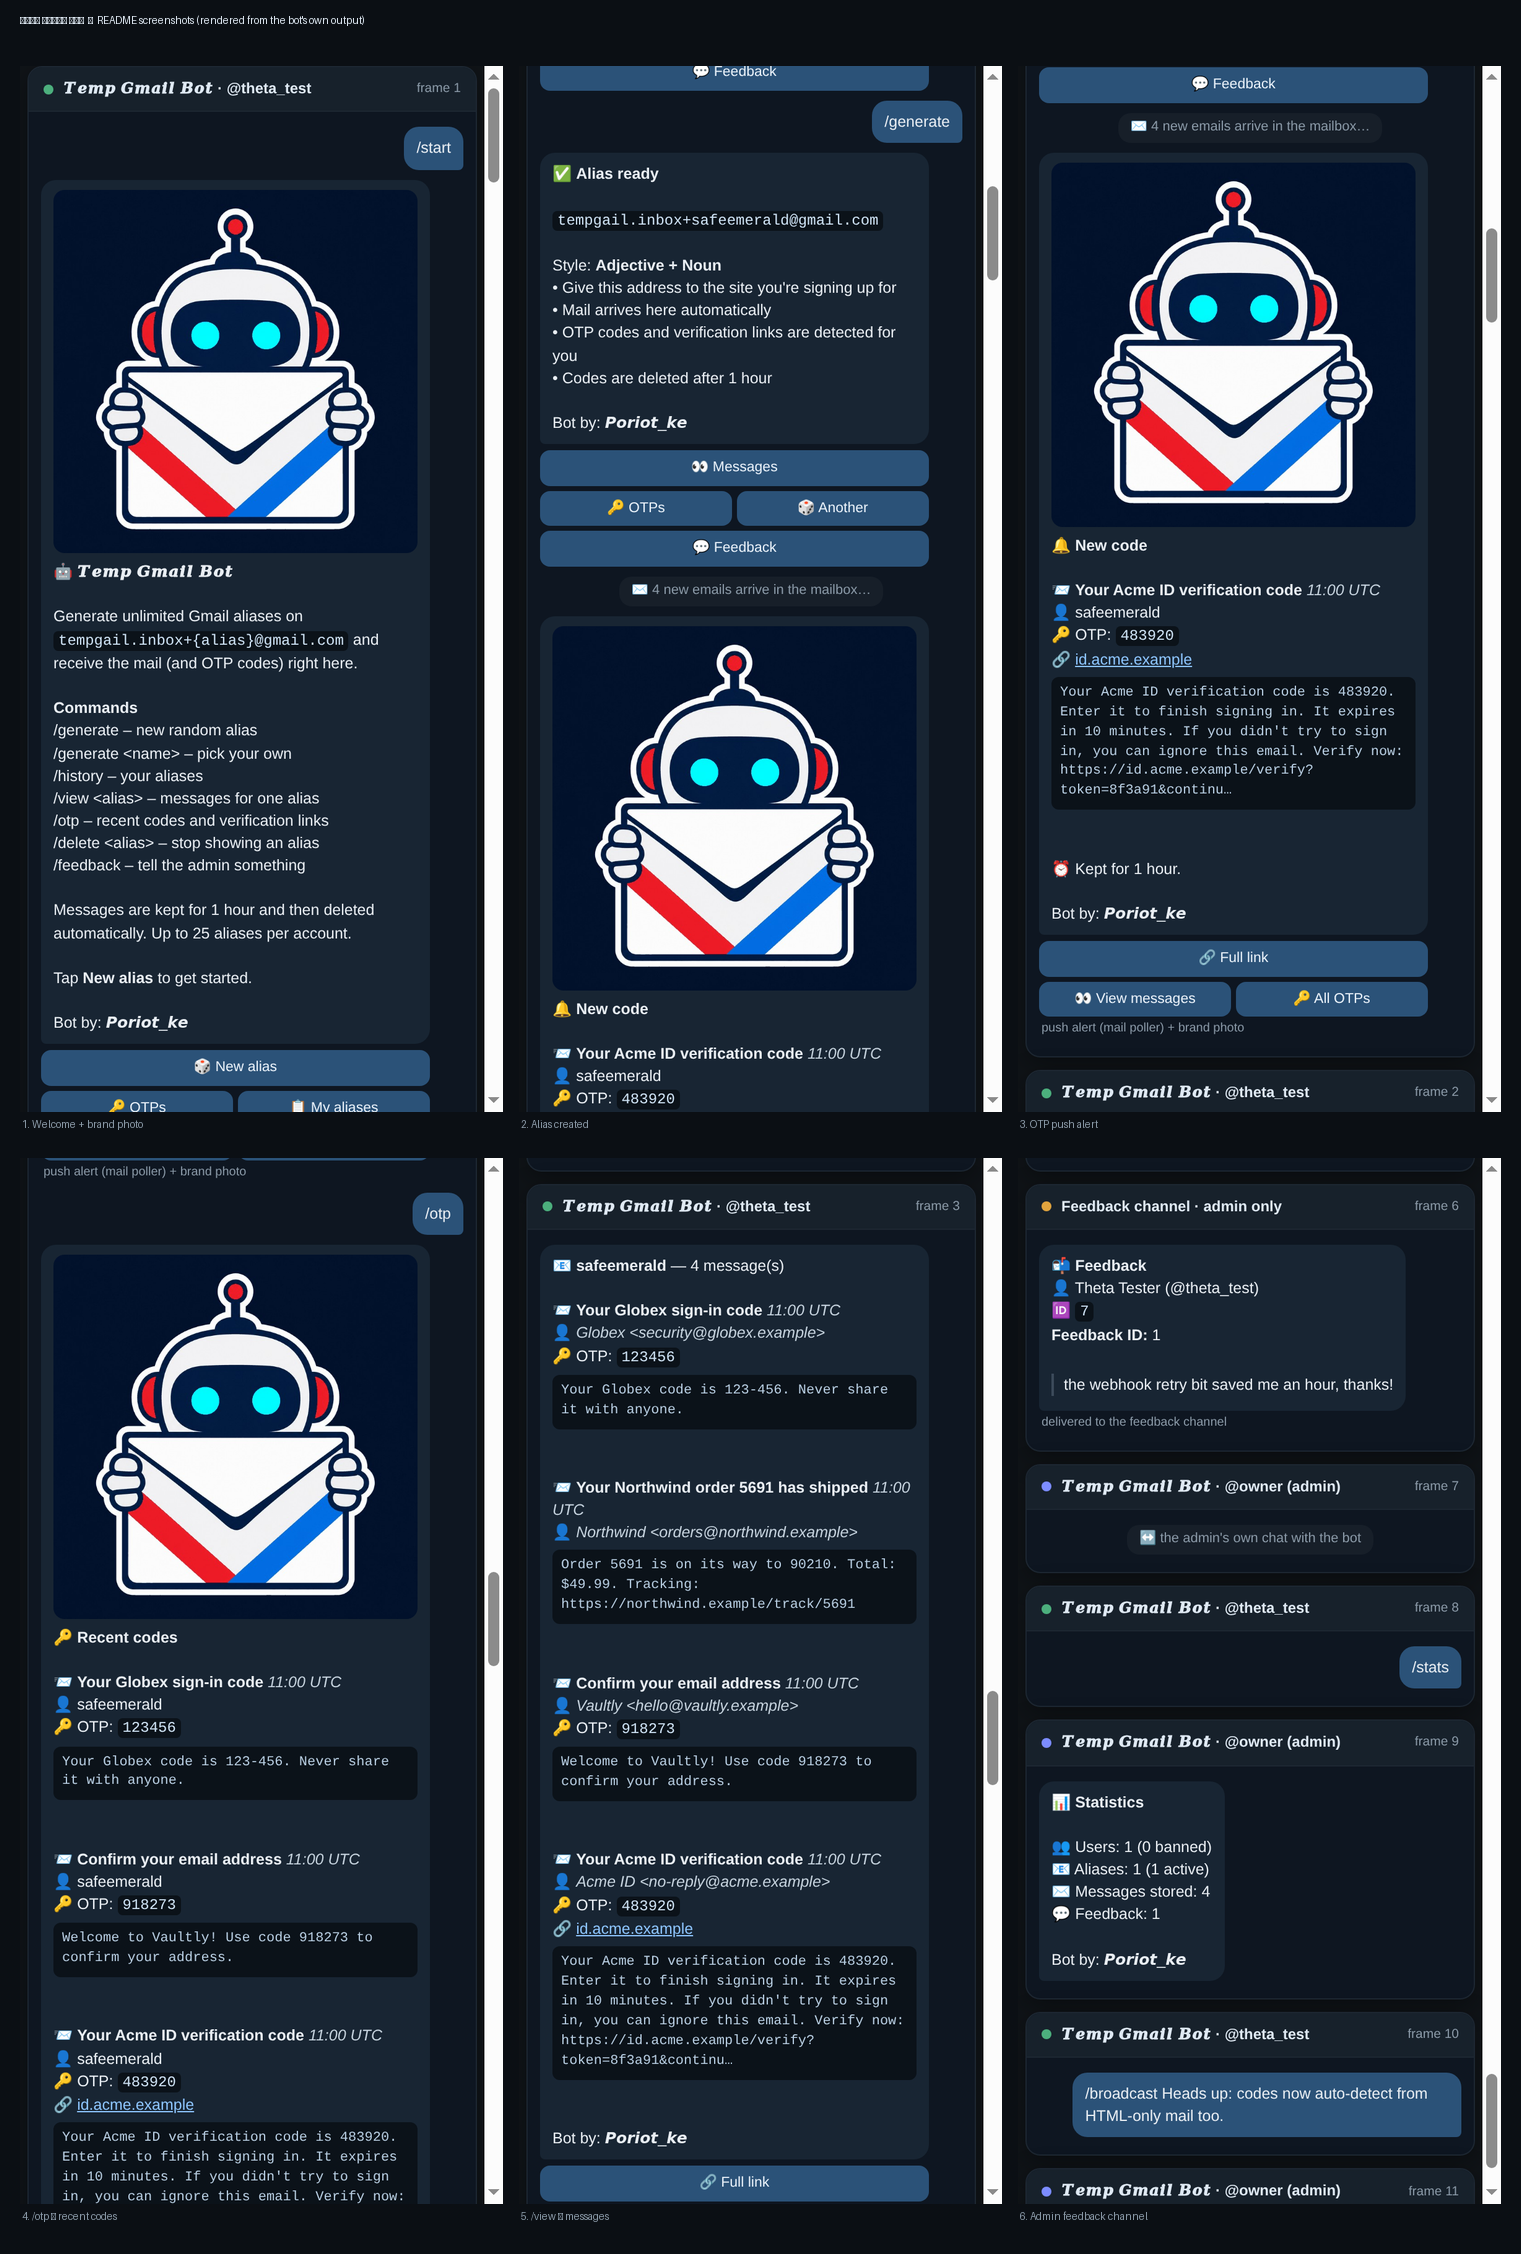
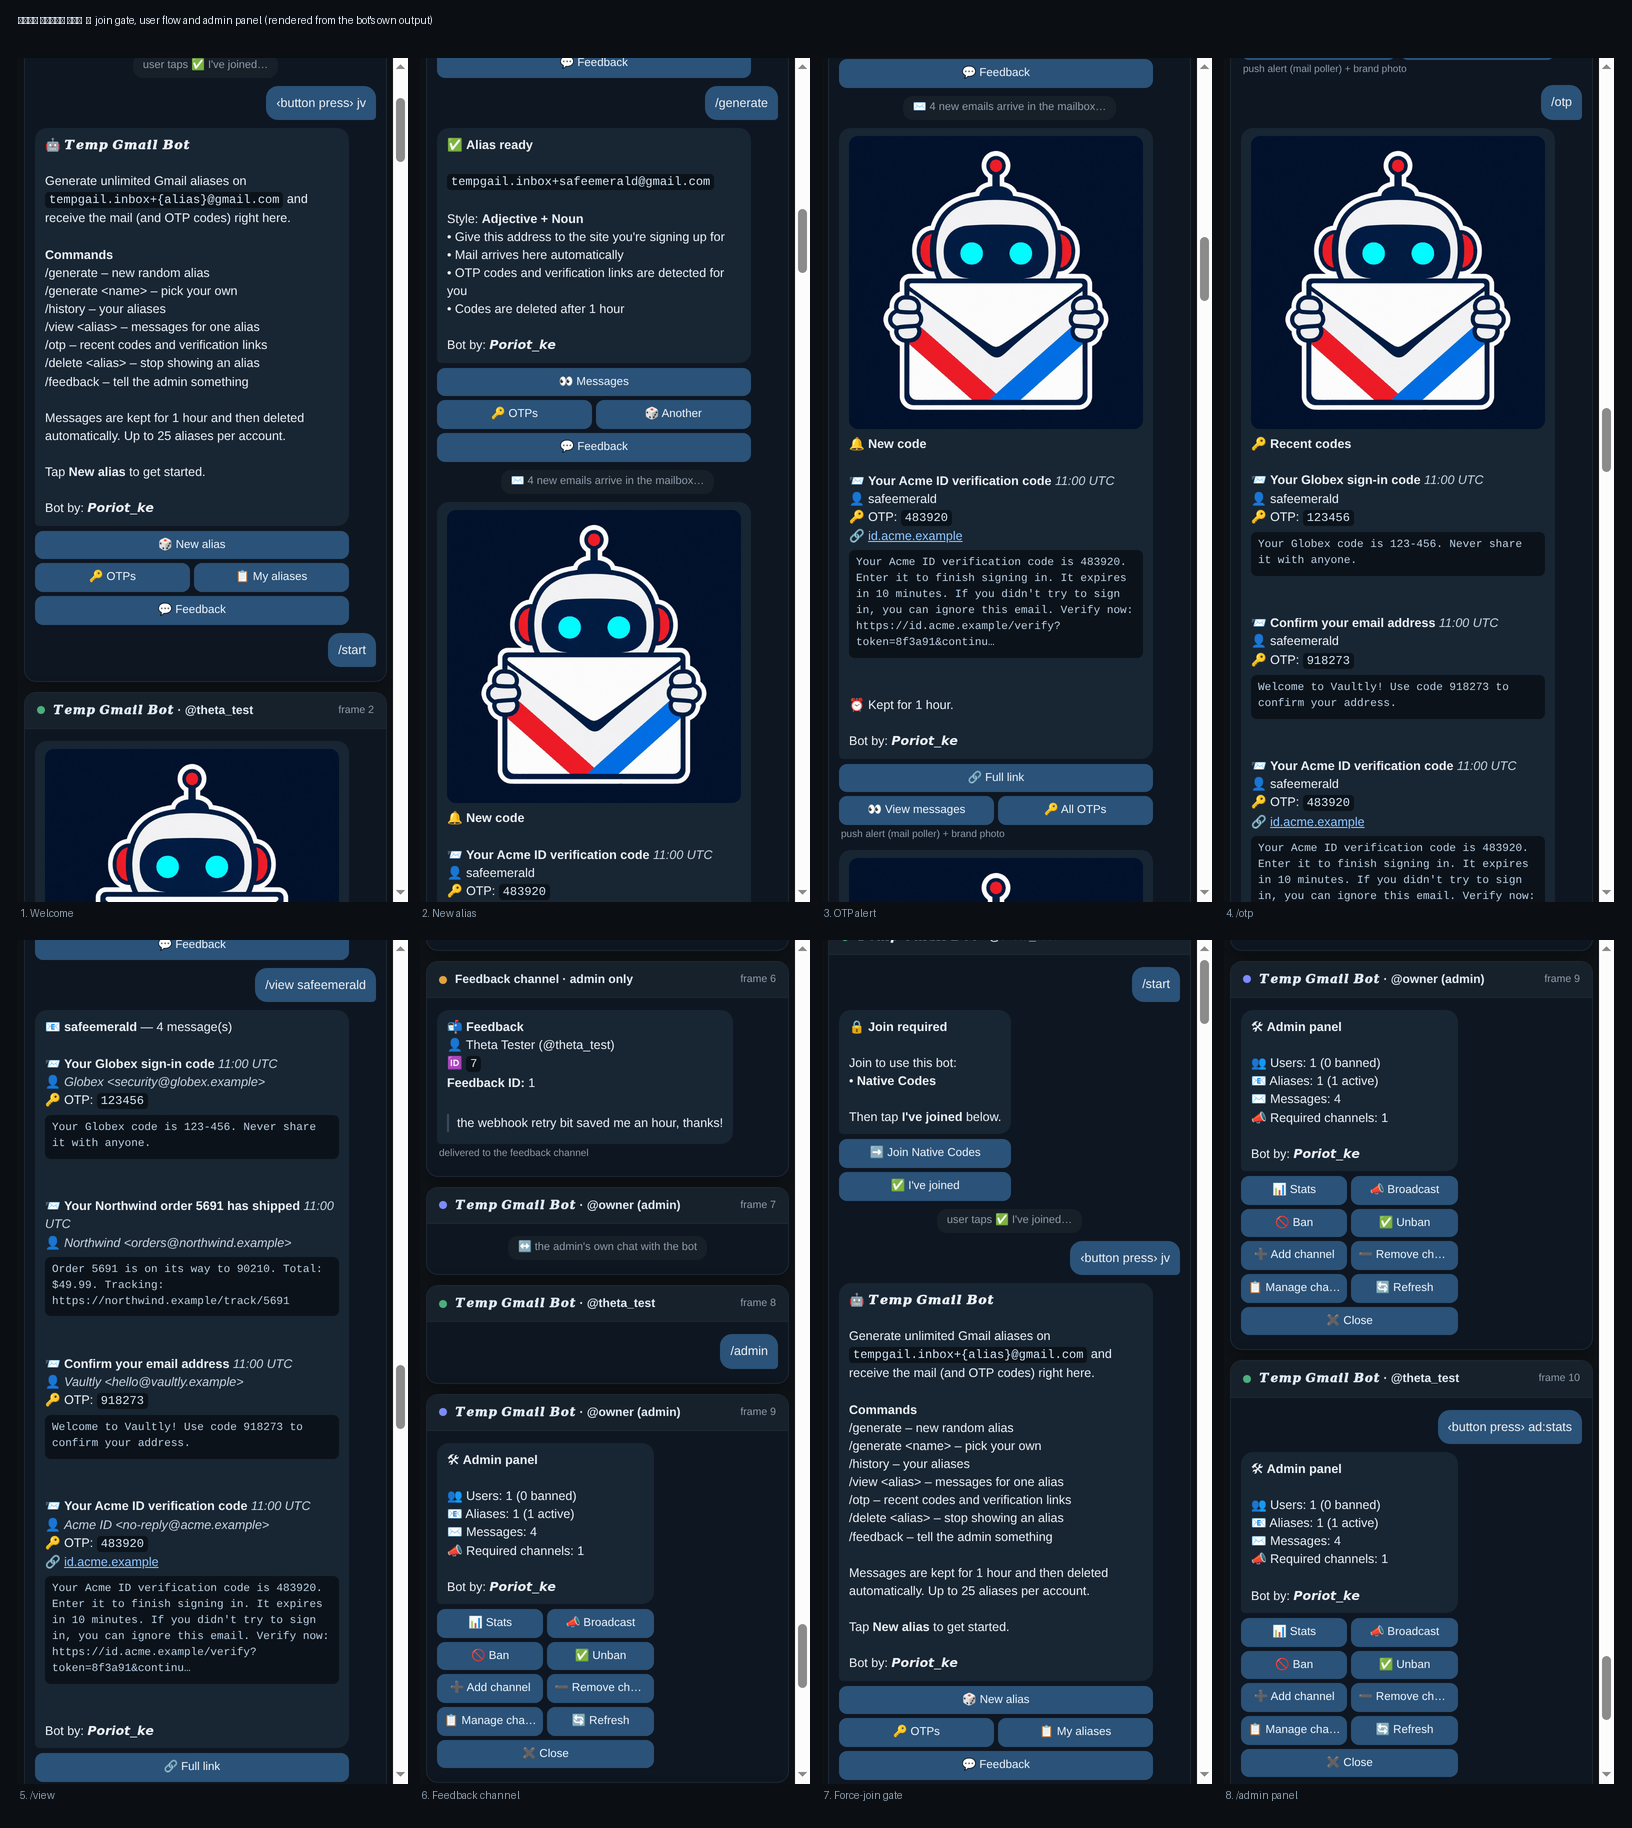
Make REQUIRED_CHANNELS tolerant of how it is typed, and verify it at boot
Telegram only understands @username or a numeric id. A bare handle
(REQUIRED_CHANNELS=nativecodes) is unresolvable, and because the gate fails open
that silently switched the join check OFF -- the worst kind of failure, since the
bot looks like it is enforcing when it is not.

- normalize_channel_ref() accepts @name, name, t.me/name, telegram.me/name,
  trailing slashes, surrounding spaces and -100... ids, and rejects what cannot
  work (empty, invite links like t.me/+abc, anything with spaces). Used for the
  env seed and reused by /addchannel through the gate.
- Unusable seed entries are logged as errors instead of being stored as-is.
- post_init now resolves every required channel once at boot: it fills in the
  real title and invite link, and logs a loud error when a channel cannot be
  read, so a misconfiguration is visible in the logs at startup rather than
  discovered as "the gate does nothing".
- Docs spell out both accepted forms.

diff --git a/gmailbot/app.py b/gmailbot/app.py
@@ -13,7 +13,7 @@ from .aliases import AliasGenerator
 from .config import Config, setup_logging
 from .db import Database
 from .handlers import BotHandlers, ChannelGuard, build_notification
-from .membership import MembershipGate
+from .membership import MembershipGate, normalize_channel_ref
 from .mail import GmailPoller
 from .notify import Notifier
 from .otp import OtpExtractor
@@ -90,12 +90,16 @@ def build_application(config: Config) -> Application:
         gate=gate,
     )
     # Deploy-time seed; /addchannel and /delchannel manage it at runtime after this.
-    for handle in config.required_channels_seed:
-        if db.list_required_channels() and handle in {
-            channel.chat_id for channel in db.list_required_channels()
-        }:
+    for raw in config.required_channels_seed:
+        ref = normalize_channel_ref(raw)
+        if ref is None:
+            logger.error(
+                "REQUIRED_CHANNELS: %r is not a channel handle or id — use "
+                "@username or -100... ; ignoring it",
+                raw,
+            )
             continue
-        db.add_required_channel(handle, handle, None, config.admin_user_id)
+        db.add_required_channel(ref, ref, None, config.admin_user_id)
 
     async def post_init(application: Application) -> None:
         # Everything a user sees before typing anything is registered here, so a
@@ -123,6 +127,27 @@ def build_application(config: Config) -> Application:
             )
         except Exception as exc:  # noqa: BLE001
             logger.warning("could not set bot description: %s", exc)
+        # Resolve the required channels once at boot: fills in their titles and
+        # invite links, and shouts in the log if one cannot be read (the gate
+        # fails open, so a silent misconfiguration would disable it entirely).
+        for channel in db.list_required_channels():
+            try:
+                chat = await application.bot.get_chat(channel.chat_id)
+            except Exception as exc:  # noqa: BLE001
+                logger.error(
+                    "required channel %s cannot be resolved (%s) — users will NOT be "
+                    "gated until this is fixed",
+                    channel.chat_id,
+                    exc,
+                )
+                continue
+            link = chat.invite_link or (
+                f"https://t.me/{chat.username}" if chat.username else channel.invite_link
+            )
+            db.add_required_channel(
+                channel.chat_id, chat.title or channel.title, link, config.admin_user_id
+            )
+
         notifier.bind(asyncio.get_running_loop(), application)
         notifier.start()
         poller.start()

diff --git a/tests/test_membership.py b/tests/test_membership.py
@@ -8,7 +8,7 @@ import pytest
 from telegram.ext import ApplicationHandlerStop
 
 from gmailbot import callbacks as cb
-from gmailbot.membership import MembershipGate
+from gmailbot.membership import MembershipGate, normalize_channel_ref
 from tests.fakes import FakeBot, FakeChat, FakeContext, FakeMessage, FakeQuery, FakeUpdate, FakeUser
 
 CHANNEL = "@nativecodes"
@@ -200,3 +200,52 @@ def test_resolve_rejects_unresolvable_and_non_channels(gate, bot):
 
 def test_resolve_rejects_empty_input(gate, bot):
     assert run(gate.resolve(bot, "   "))[0] is None
+
+
+# ------------------------------------------------- reference normalisation
+@pytest.mark.parametrize(
+    "raw, expected",
+    [
+        ("@nativecodes", "@nativecodes"),
+        ("nativecodes", "@nativecodes"),          # the case that used to break
+        ("https://t.me/nativecodes", "@nativecodes"),
+        ("http://t.me/nativecodes", "@nativecodes"),
+        ("t.me/nativecodes", "@nativecodes"),
+        ("telegram.me/nativecodes", "@nativecodes"),
+        ("https://t.me/nativecodes/", "@nativecodes"),
+        ("  @nativecodes  ", "@nativecodes"),
+        ("-1001234567890", "-1001234567890"),
+        ("-1001234567890 ", "-1001234567890"),
+        ("", None),
+        ("   ", None),
+        ("https://t.me/+AbCdEf", None),           # invite link, not a reference
+        ("t.me/+AbCdEf", None),
+        ("has spaces", None),
+    ],
+)
+def test_channel_reference_normalisation(raw, expected):
+    assert normalize_channel_ref(raw) == expected
+
+
+def test_seeded_channels_are_normalised(config, db, tmp_path):
+    """REQUIRED_CHANNELS=@a,plain,https://t.me/c must not silently disable the gate."""
+    import dataclasses
+
+    from gmailbot.app import build_application
+    from gmailbot.config import Config
+
+    env = {
+        "BOT_TOKEN": "123456789:AAHdqTcvCH1vGWJxfSeofSAs0K5PALDsaw",
+        "GMAIL_EMAIL": "owner@gmail.com",
+        "GMAIL_APP_PASSWORD": "abcdefghijklmnop",
+        "ADMIN_USER_ID": "42",
+        "FEEDBACK_CHANNEL_ID": "-1001234567890",
+        "DB_PATH": str(tmp_path / "seed.db"),
+        "LOG_PATH": str(tmp_path / "seed.log"),
+        "REQUIRED_CHANNELS": "@first,second,https://t.me/third,-100999,-100888,bad ref",
+    }
+    seeded = Config.from_env(env, root=tmp_path)
+    application = build_application(seeded)
+    stored = [c.chat_id for c in application.bot_data["db"].list_required_channels()]
+    assert stored == ["@first", "@second", "@third", "-100999", "-100888"]
+    application.bot_data["db"].close()

diff --git a/gmailbot/membership.py b/gmailbot/membership.py
@@ -17,6 +17,7 @@ from __future__ import annotations
 
 import asyncio
 import logging
+import re
 import time
 from dataclasses import dataclass
 
@@ -33,6 +34,40 @@ logger = logging.getLogger(__name__)
 
 #: A user counts as joined in any of these states.
 _MEMBER_STATES = {"creator", "administrator", "member", "restricted"}
+
+
+def normalize_channel_ref(raw: str) -> str | None:
+    """Accept every shape a human will type; return what the Bot API needs.
+
+    ``nativecodes``, ``@nativecodes``, ``https://t.me/nativecodes`` and
+    ``-1001234567890`` are all valid input. Telegram itself only understands
+    ``@username`` or a numeric id, so a bare handle would be unresolvable -- and
+    because the gate fails open, that would silently switch the check off.
+
+    Returns ``None`` for anything unusable (empty, an invite link like
+    ``t.me/+abc``, or junk).
+    """
+    value = (raw or "").strip()
+    if not value:
+        return None
+    lowered = value.lower()
+    for prefix in (
+        "https://t.me/", "http://t.me/", "t.me/",
+        "https://telegram.me/", "http://telegram.me/", "telegram.me/",
+    ):
+        if lowered.startswith(prefix):
+            value = value[len(prefix):]
+            break
+    value = value.strip("/").split("/")[0]
+    if not value or value.startswith("+"):
+        return None  # an invite link is not a usable chat reference
+    if value.startswith("@"):
+        value = value[1:]
+    if value.lstrip("-").isdigit():
+        return value
+    if re.fullmatch(r"[A-Za-z0-9_]{4,}", value):
+        return f"@{value}"
+    return None
 
 
 @dataclass

diff --git a/README.md b/README.md
@@ -93,7 +93,7 @@ Everything is env config — I never hardcode it.
 | `MAX_ALIASES_PER_USER` / `GENERATE_PER_HOUR` | `25` / `20` | per-user limits |
 | `IMAP_MAILBOX` | `INBOX` | set `[Gmail]/All Mail` if a filter archives alias mail |
 | `FORCE_JOIN` | `true` | require channel membership before the bot answers |
-| `REQUIRED_CHANNELS` | empty | seed list, e.g. `@nativecodes,@other` (then use `/addchannel`) |
+| `REQUIRED_CHANNELS` | empty | seed list, comma-separated: `@nativecodes,-1001234567890` (the `@` is optional; then manage with `/addchannel`) |
 | `MEMBERSHIP_CACHE_SECONDS` | `300` | how long a membership result is trusted |
 | `BOT_BRAND_NAME` | `𝑻𝒆𝒎𝒑 𝑮𝒎𝒂𝒊𝒍 𝑩𝒐𝒕` | name in the welcome, description and captions |
 | `BOT_CREDIT` | `𝙋𝙤𝙧𝙞𝙤𝙩_𝙠𝙚` | rendered as `Bot by: …` on every message |

diff --git a/docs/DEPLOYMENT.md b/docs/DEPLOYMENT.md
@@ -8,7 +8,9 @@ open. So it needs a **worker**, not a web handler.
 1. The env vars from `.env.example` (`BOT_TOKEN`, `GMAIL_EMAIL`,
    `GMAIL_APP_PASSWORD`, `ADMIN_USER_ID`, `FEEDBACK_CHANNEL_ID`). Optional:
    `FORCE_JOIN` + `REQUIRED_CHANNELS` to make users join a channel first — you can
-   also add channels from inside Telegram with `/addchannel`.
+   also add channels from inside Telegram with `/addchannel`. Use `@username` or
+   `-100…` in `REQUIRED_CHANNELS`; the bot logs an error at boot if one cannot be
+   resolved (the gate fails open, so it would otherwise switch itself off).
 2. **1 replica** — two copies on one mailbox double-notify.
 3. A persistent path for `DB_PATH` / `LOG_PATH` (a volume in the cloud), or your
    aliases and codes are wiped on each deploy.
